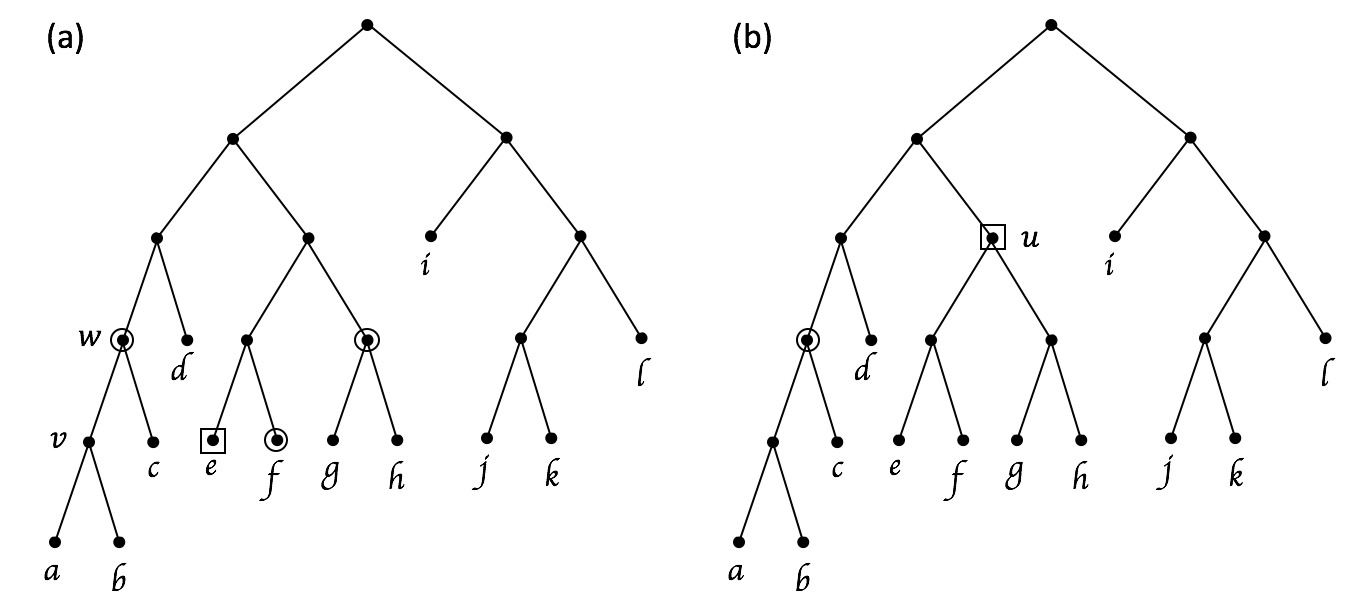
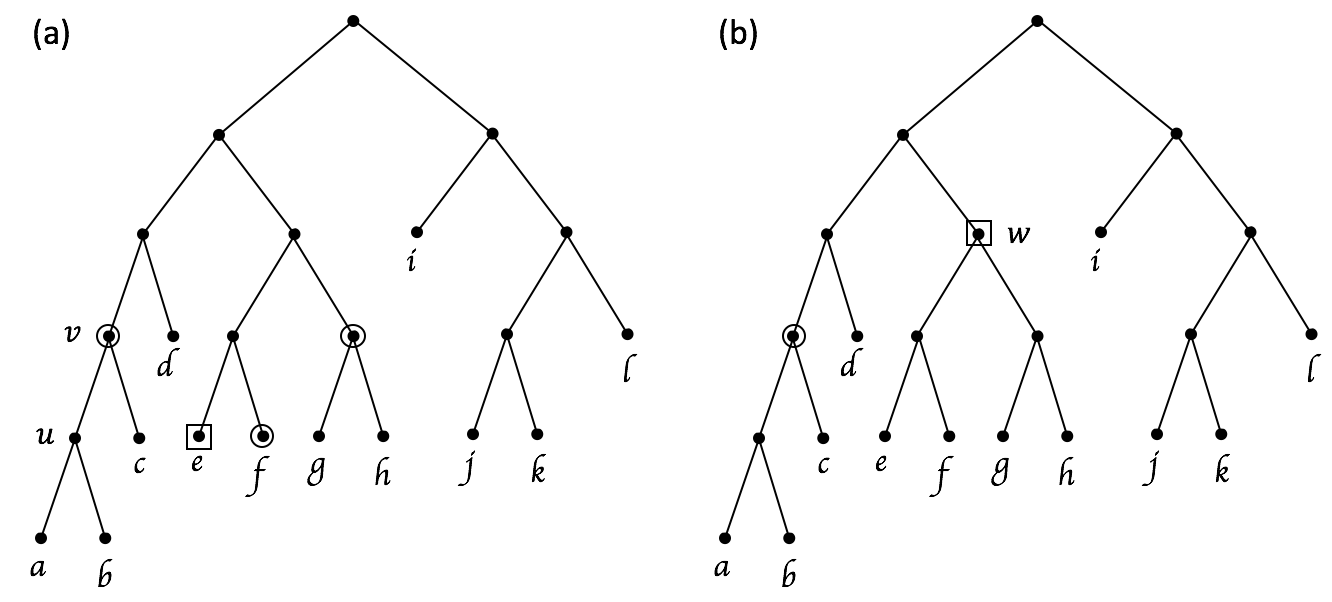
Continue making restricted tree changes

diff --git a/final_report/final_report.tex b/final_report/final_report.tex
@@ -449,18 +449,18 @@
     \subsection{The concept of a \textit{minimum cover}}
     \label{subsec:mincover}
 
-    Given a tree $T$ leaf-labelled by $L$ and a cluster $C \subseteq L$, define a set $M \subseteq V(T)$ to be a cover of $C$ in $T$ if $\bigcup_{u \in M} \leafset^{T}(u) = C$. Then we define the minimum cover of $C$ in $T$, denoted as $minCover^{T}(C)$, to be the smallest set $M$ such that $M$ is a cover of $C$. Note that this set is well defined for each cluster. Further, for any node $u \in V(T)$ such that $\leafset^{T}(u) \subseteq C$, define the node covering $u$, denoted as $coverer^{T, C}(u)$, to be the ancestor of $u$ which belongs in $minCover^{T}(C)$. Observe that this node must exist, since $\leafset^{T}(u)$ must be covered, and covering it with descendants of $u$ certainly yields a larger cover than if we use $u$. Figure~\ref{fig:mincoverrecursive}(a) gives an example of a minimum cover. In the same diagram, let $C = \{a, b, c, f, g, h\}$ and $v$ be as labelled. Then $coverer^{T, C}(v) = w$ and $minCover^{T}(C)$ is given by all the circled nodes.
+    Given a tree $T$ leaf-labelled by $L$ and a cluster $C \subseteq L$, define a set $M \subseteq V(T)$ to be a cover of $C$ in $T$ if $\bigcup_{u \in M} \leafset^{T}(u) = C$. Then we define the minimum cover of $C$ in $T$, denoted as $minCover^{T}(C)$, to be the smallest set $M$ such that $M$ is a cover of $C$. Note that this set is well defined for each cluster. Further, for any node $u \in V(T)$ such that $\leafset^{T}(u) \subseteq C$, define the node covering $u$, denoted as $coverer^{T, C}(u)$, to be the ancestor of $u$ which belongs in $minCover^{T}(C)$. Observe that this node must exist, since $\leafset^{T}(u)$ must be covered, and covering it with descendants of $u$ certainly yields a larger cover than if we use $u$. Figure~\ref{fig:mincoverrecursive}(a) gives an example of a minimum cover. In the same diagram, let $C = \{a, b, c, f, g, h\}$ and $u$ be as labelled. Then $coverer^{T, C}(u) = v$ and $minCover^{T}(C)$ is given by all the circled nodes.
 
     \begin{figure}[ht]
         \includegraphics[scale=0.48]{mincoverrecursive}
         \centering
-        \caption[Minimum cover and the $addToCover$ operation]{Illustration of minimum cover and $addToCover$ operation. Let $C = \{a, b, c, f, g, h\}$. Then the circled nodes in (a) give $minCover^{T}(C)$. Take the leaf $e$, marked with a square in (a) and let $Ce = C \cup \{e\}$. Then $coverer^{T, Ce}(e) = u$, marked with a square in (b). Then the circled node and $u$ in (b) give $minCover^{T}(Ce)$.}
+        \caption[Minimum cover and the $findCoverer$ operation]{Illustration of minimum cover and $findCoverer$ operation. Let $C = \{a, b, c, f, g, h\}$. Then the circled nodes in (a) give $minCover^{T}(C)$. Take the leaf $e$, marked with a square in (a) and let $Ce = C \cup \{e\}$. Then $coverer^{T, Ce}(e) = w$, marked with a square in (b). Then the circled node and $w$ in (b) give $minCover^{T}(Ce)$.}
         \label{fig:mincoverrecursive}
     \end{figure}
 
-    Given some tree $T$ leaf-labelled by $L$, cluster $C \subseteq L$ and node $u \in V(T)$ such that $\leafset^{T}(u) \cap C = \emptyset$, let $M = minCover^{T}(C)$ and $Cu = C \cup \leafset^{T}(u)$. Then it is useful to be able to find $coverer^{T, Cu}(u)$. To this end, we define the operation $findCoverer^{T}(M, u)$ which returns $coverer^{T, Cu}(u)$. It is also of interest to define an operation that can then find the minimum cover of $Cu$ using this. Thus, we define the operation $addToCover^{T}(M, u, v)$, where $v = coverer^{T, Cu}(u)$, which returns $minCover^{T}(Cu)$.
+    Given some tree $T$ leaf-labelled by $L$, cluster $C \subseteq L$ and node $u \in V(T)$ such that $\leafset^{T}(u) \cap C = \emptyset$, let $M = minCover^{T}(C)$ and $Cu = C \cup \leafset^{T}(u)$. Then it is useful to be able to find $coverer^{T, Cu}(u)$. To this end, we define the operation $findCoverer^{T}(M, u)$ which returns $coverer^{T, Cu}(u)$.
 
-    Figure~\ref{fig:mincoverrecursive} demonstrates how these queries work. Here, $C = \{a, b, c, f, g, h\}$ and we take the leaf $e$. The circled nodes in Figure~\ref{fig:mincoverrecursive}(a) give $minCover^{T}(C)$. Then we wish to compute $coverer^{T, Ce}(e)$, where $Ce = C \cup \{e\}$. The idea for doing so will be to iterate upwards from $e$ while the leafset of the node we are at is a subset of $Ce$. Thus, since $\leafset^{T}(parent(e)) \subseteq Ce$, we go upwards one level. We can then go a further  level, to the node $u$ since $\leafset^{T}(u) \subseteq Ce$. At this point we cannot go any further up. Hence, we say that we have found $u = coverer^{T, Ce}(e)$. Now to find $minCover^{T}(Ce)$, notice that we can subtract the set of all children of the nodes on the path from $e$ to $u$ (excluding $e$) from $M$, add $u$, and this gives us the required set. That is, we take $M \cup \{u\} - \bigcup_{u' \in path^{T}(e, u]} children(u')$. From these observations, we give the following recursive formulation of the two queries.
+    Figure~\ref{fig:mincoverrecursive} demonstrates how this query works. Here, $C = \{a, b, c, f, g, h\}$ and we take the leaf $e$. The circled nodes in Figure~\ref{fig:mincoverrecursive}(a) give $minCover^{T}(C)$. Then we wish to compute $coverer^{T, Ce}(e)$, where $Ce = C \cup \{e\}$. The idea for doing so will be to iterate upwards from $e$ while the leafset of the node we are at is a subset of $Ce$. Thus, since $\leafset^{T}(parent(e)) \subseteq Ce$, we go upwards one level. We can then go a further  level, to the node $w$ since $\leafset^{T}(w) \subseteq Ce$. At this point we cannot go any further up. Hence, we say that we have found $w = coverer^{T, Ce}(e)$. This yields the following definition of $findCoverer^{T}(M, u)$:
     \newline
 
     \begin{findcovererrecursive}
@@ -479,12 +479,14 @@
         \end{proof}
     \end{findcovererrecursive}
 
-    \medskip
+    Now given $coverer^{T, Cu}(u)$, we would like to actually obtain the minimum cover of $Cu$. Referring back to Figure~\ref{fig:mincoverrecursive}, notice that we can subtract the set of all children of the nodes on the path from $e$ to $w$ (excluding $e$) from $M$, add $w$, and this gives us the required set. That is, we take $M \cup \{w\} - \bigcup_{w' \in path^{T}(e, w]} children(w')$. This leads to the following lemma:
+    \newline
+
     \begin{mincoverrecursive}
         \label{lem:mincoverrecursive}
 
         Given a tree $T$ leaf-labelled by $L$, a cluster $C \subseteq L$ and a node $u \in V(T)$ such that $\leafset^{T}(u) \cap C = \emptyset$ let $M = minCover^{T}(C)$, $Cu = C \cup \leafset^{T}(u)$ and $v = coverer^{T, Cu}(u)$. Then
-         \[addToCover^{T}(M, u, v) = M \cup \{v\} - \bigcup_{w \in path^{T}(u, v]} children(w)\]
+         \[minCover^{T}(Cu) = M \cup \{v\} - \bigcup_{w \in path^{T}(u, v]} children(w)\]
 
         \begin{proof}
             Firstly, $M \cup \{v\} - \bigcup_{w \in path^{T}(u, v]} children(w)$ covers $Cu$. To see this, take any leaf $x \in Cu$. Then if $x \in \leafset^{T}(v)$, then we are clearly done. Otherwise, $x \in C$, so there must be some $c \in M$ such that $x \in leafset^{T}(c)$. But $c \not\in \bigcup_{w \in path^{T}(u, v]} children(w)$, otherwise $x \in \leafset^{T}(v)$. Thus $c \in M - \bigcup_{w \in path^{T}(u, v]} children(w)$, so we are done.
@@ -495,18 +497,19 @@
         \end{proof}
     \end{mincoverrecursive}
 
+    % TODO:
     Subsection~\ref{subsec:addtocover} details how to actually implement these. We now make a claim (proved later) about the running time of these operations.
-    \newline
-
-    \begin{mincoverruntime}
-        \label{lem:mincoverruntime}
-
-        Given a tree $T$ leaf-labelled by $L$, a cluster $C \subseteq L$ and a node $u \in V(T)$ such that $\leafset^{T}(u) \cap C = \emptyset$, let $M = minCover^{T}(C)$, $Cu = C \cup \leafset^{T}(u)$ and $v = coverer^{T, Cu}(u)$. Then the operations $findCoverer(M, u)$ and $addToCover^{T}(M, u, v)$ can be performed in amortized $O(1)$ time.
-
-        \begin{proof}
-            Proved in Subsection~\ref{subsec:addtocover}.
-        \end{proof}
-    \end{mincoverruntime}
+    % \newline
+    %
+    % \begin{mincoverruntime}
+    %     \label{lem:mincoverruntime}
+    %
+    %     Given a tree $T$ leaf-labelled by $L$, a cluster $C \subseteq L$ and a node $u \in V(T)$ such that $\leafset^{T}(u) \cap C = \emptyset$, let $M = minCover^{T}(C)$, $Cu = C \cup \leafset^{T}(u)$ and $v = coverer^{T, Cu}(u)$. Then the operations $findCoverer(M, u)$ and $addToCover^{T}(M, u, v)$ can be performed in amortized $O(1)$ time.
+    %
+    %     \begin{proof}
+    %         Proved in Subsection~\ref{subsec:addtocover}.
+    %     \end{proof}
+    % \end{mincoverruntime}
 
     \subsection{Redefining incompatibility}
     \label{subsec:redefiningincompatibility}
@@ -531,11 +534,11 @@
     \begin{figure}[ht]
         \includegraphics[scale=0.5]{incompatibility}
         \centering
-        \caption[Incompatibility and the $addToCover$ operation]{Illustration of Lemma~\ref{lem:incompatibilitymincover} and an $updateIncompatible$ operation. Let $C = \{a, b, c, f, g, h\}$. Then in (a), $l_C = lca^T(C)$, the circled nodes give $minCover^{T}(C)$ and the nodes marked with squares give $incompatible^T(C)$. Notice that all nodes in $incompatible^T(C)$ are proper descendants of $l_C$ and proper ancestors of some $c \in minCover^{T}(C)$. Referencing (b), let $Cu = C \cup \leafset^{T}(u)$ and $l_{Cu} = lca^{T}(Cu)$. Note that $u = coverer^{T, Cu}(u)$. Then we run $updateIncompatible^{T}(incompatible^{T}(C), u, u, l_C, l_{Cu})$. Again, nodes in $minCover^{T}(Cu)$ are circled and nodes in $incompatible^{T}(Cu)$ are marked with squares.}
+        \caption[Incompatibility and the $updateIncompatible$ operation]{Illustration of Lemma~\ref{lem:incompatibilitymincover} and an $updateIncompatible$ operation. Let $C = \{a, b, c, f, g, h\}$. Then in (a), $l_C = lca^T(C)$, the circled nodes give $minCover^{T}(C)$ and the nodes marked with squares give $incompatible^T(C)$. Notice that all nodes in $incompatible^T(C)$ are proper descendants of $l_C$ and proper ancestors of some $c \in minCover^{T}(C)$. Referencing (b), let $Cu = C \cup \leafset^{T}(u)$ and $l_{Cu} = lca^{T}(Cu)$. Note that $u = coverer^{T, Cu}(u)$. Then we run $updateIncompatible^{T}(incompatible^{T}(C), u, u, l_C, l_{Cu})$. Again, nodes in $minCover^{T}(Cu)$ are circled and nodes in $incompatible^{T}(Cu)$ are marked with squares.}
         \label{fig:incompatibility}
     \end{figure}
 
-    We now wish to define an operation similar to $addToCover$, which takes the set of nodes incompatible with a given cluster and updates this set to become those incompatible with a superset of that cluster. Formally, given tree a $T$ leaf-labelled by $L$, a cluster $C \subseteq L$ and node $u \in V(T)$ such that $\leafset^{T}(u) \cap C = \emptyset$, we would like to have an operation that takes in $I$ and $u$ (along with some other arguments) and returns $incompatible^{T}(C \cup \leafset^{T}(u))$. Figure~\ref{fig:incompatibility}(b) shows the result of an $updateIncompatible$ query.
+    We now wish to define an operation which takes the set of nodes incompatible with a given cluster and updates this set to become those incompatible with a superset of that cluster. Formally, given tree a $T$ leaf-labelled by $L$, a cluster $C \subseteq L$ and node $u \in V(T)$ such that $\leafset^{T}(u) \cap C = \emptyset$, we would like to have an operation that takes in $I$ and $u$ (along with some other arguments) and returns $incompatible^{T}(C \cup \leafset^{T}(u))$. Figure~\ref{fig:incompatibility}(b) shows the result of an $updateIncompatible$ query.
 
     \begin{figure}[ht]
         \includegraphics[scale=0.6]{incompatibilityrecursive}
@@ -578,6 +581,7 @@
         \end{proof}
     \end{incompatibilityrecursive}
 
+    % TODO: Should remove this??
     Thus we define the operation $updateIncompatible^{T}(I, u, v, l_C, l_{Cu})$ which returns $incompatible^{T}(Cu)$. The actual implementation of this operation is detailed in Subsection~\ref{subsec:updateincompatible}.
 
     We now make a claim about the running time of the $updateIncompatible$ operation, which is proved later.
@@ -600,7 +604,14 @@
 
     Recall the concept of restricted trees introduced in Subsection~\ref{subsec:restrictedtree} - given a tree $T$ leaf-labelled by $L$ and a cluster $C \subseteq L$, $V(T|C) = \{lca^T(u, v) : u, v \in C\}$ which obeys $lca^T(C') = lca^{T|C}(C')$ for all clusters $C' \subseteq C$. Observe that certain nodes are deleted from $T$ when forming $T|C$; this leads to losing information about the weights of these nodes. Hence, we extend the concept of restricted trees to the case where the tree is weighted, following the definition given in \cite{jansson2018algorithms}.
 
-    Given a tree $T$ leaf-labelled by $L$, a cluster $C \subseteq L$ and for each node $u \in V(T)$, the value $\weight(u)$, we define the tree $T||C$, read as ``weighted $T$ restricted to $C$''. First, the tree $T|C$ is constructed and let the weight of each node in this tree be the same as its weight in $T$. Now for each non-root node $u \in V(T|C)$, let $v = parent^{T|C}(u)$. Then if $path^{T}(u, v) \neq \emptyset$ we create a dummy node $z$ in $T|C$ and set $parent(u) = z$ and $parent(z) = v$. Also, $\weight(z)$ is set as $max_{w \in path^{T}(u, v)} \weight(w)$. Intuitively, if $path^{T}(u, v) \neq \emptyset$, then the nodes in this path have been deleted from $T$ to form $T|C$. As we wish to retain some information about their weights, we insert the dummy node $z$ into $T||C$ to represent this path and hold the largest weight along it.
+    Given a tree $T$ leaf-labelled by $L$, a cluster $C \subseteq L$ and for each node $u \in V(T)$, the value $\weight(u)$, we define the tree $T||C$, read as ``weighted $T$ restricted to $C$''. First, the tree $T|C$ is constructed and let the weight of each node in this tree be the same as its weight in $T$. Now for each non-root node $u \in V(T|C)$, let $v = parent^{T|C}(u)$. Then if $path^{T}(u, v) \neq \emptyset$ we create a dummy node $z$ in $T|C$ and set $parent(u) = z$ and $parent(z) = v$. Also, $\weight(z)$ is set as $max_{w \in path^{T}(u, v)} \weight(w)$. Intuitively, if $path^{T}(u, v) \neq \emptyset$, then the nodes in this path have been deleted from $T$ to form $T|C$. As we wish to retain some information about their weights, we insert the dummy node $z$ into $T||C$ to represent this path and hold the largest weight along it. Figure~\ref{fig:dummynodes} demonstrates this procedure.
+
+    \begin{figure}[ht]
+        \includegraphics[scale=0.5]{dummynodes}
+        \centering
+        \caption[Constructing the tree $T||C$]{Part (a) shows a tree $T$ where all internal nodes are labelled with their weights. Part (b) shows the tree $T||C$, where $C = \{a, c, j\}$. Again, internal nodes are labelled with their weights. Nodes represented by diamonds in this figure are dummy nodes. Observe that the dummy node that is a parent of the leaf $j$ has weight $7$ since the nodes on the path from $j$ to the root of $T$ had weights $4, 7$ and $2$.}
+        \label{fig:dummynodes}
+    \end{figure}
 
     Now, we observe some properties of $T||C$. First, define the pure nodes in $T$ with respect to $C$, denoted as $pure^{T}(C)$, to be the set $\{\leafset^{T}(u) \subseteq C : u \in V(T)\}$. Observe that $pure^{T}(C) = \bigcup_{c \in minCover^{T}(C)} V(T[c])$, i.e. the set of nodes that belong to the subtrees rooted at the minimum cover of $C$ in $T$. Notice that for any node $u \in pure^{T}(C)$, since $\leafset^{T}(u) \subseteq C$, $u \in V(T|C)$ and so $u \in V(T||C)$. Thus these subtrees are copied over without change to $T||C$. Now define the impure nodes in $T||C$, denoted as $impure^{T}(C)$, to be the set $V(T||C) - pure^{T}(C)$. Observe that all dummy nodes in $T||C$ belong to $impure^{T}(C)$. Now we prove a Lemma about the incompatibility of nodes in $T||C$.
     \newline
@@ -635,9 +646,12 @@
 
     With these operations in hand, we now develop the solution for \texttt{Filter\_Clusters}. Recall that this method takes trees $\TA$ and $\TB$ as input. First, for any node $u \in V(\TA)$, define $incompatible^{\TB}(u)$ to be $incompatible^{\TB}(\leafset^{\TA}(u))$. As discussed earlier, the idea is to find $incompatible^{\TB}(u)$ for each node $u \in V(\TA)$.
 
+    % TODO: Filter_Clusters definition
     Recall that \texttt{Filter\_Clusters} takes in trees $\TA$ and $\TB$ and returns a tree $T$, where $\mathcal{C}(T) = \{C : C \in \mathcal{C}(\TA) \text{ and } \weight(C) > max(\{\weight(C_1) : C_1 \in \mathcal{C}(\TB) \text{ and } C_1 \not\compatible C\})\}$. However, during recursive calls to this function, it could be that we delete the root of $\TA$. Thus, we change the signature slightly to return a forest $\mathcal{F}$ such that the clusters present in this forest are exactly the required ones, i.e. $\bigcup_{T' \in \mathcal{F}} \mathcal{C}(T') = \{C : C \in \mathcal{C}(\TA) \text{ and } \weight(C) > max(\{\weight(C_1) : C_1 \in \mathcal{C}(\TB) \text{ and } C_1 \not\compatible C\})\}$. Note that since the root of the original $\TA$ is a trivial cluster, it is compatible with all other clusters, so it will never be deleted. Thus, the outermost recursive call will yield only a single tree. We also modify the signature to return the set $minCover^{\TB}(\leafset^{\TA})$.
 
     Algorithm~\ref{alg:filterclusters} gives the algorithm \texttt{Filter\_Clusters}. Step~\ref{step:centroidpath} decomposes $\TA$ into a \textit{centroid path} $\langle p_{\gamma}, p_{\gamma - 1}, \dots, p_1 \rangle$, where $p_{\gamma}$ is the root of $\TA$, and a set of \textit{side trees} (similarly to \cite{jansson2018algorithms}). Observe that for any side tree $\tau \in \sigma(\TA)$, $|\leafset^\tau| \leq n/2$ and that $\{\leafset^{\tau} : \tau \in \sigma(\TA)\}$ forms a partition of $L\, \backslash\, {p_1}$. We further note that for any internal node $p_i \in \pi(\TA)$, $\leafset^{\TA}(p_{i - 1}) \subset \leafset^{\TA}(p_i)$, i.e. the cluster associated with $p_{i-1}$ is a proper subset of $p_i$. This then leads to the intuition behind the procedure \texttt{Filter\_Clusters} - recursively run the algorithm on the side trees, and then iterate over the centroid path from leaf to root, finding $incompatible^{\TB}(p_i)$ for each $p_i \in \pi(\TA)$.
+
+
 
     More specifically, Step~\ref{step:obtainsidecover} first obtains the nodes that cover, for each $p_i \in \pi(\TA)$, each of the side trees of $p_i$ using recursive calls to \texttt{Filter\_Clusters}, i.e. the set $\bigcup_{\tau \in \sigma(p_i)} minCover^{\TB}(\leafset^{\tau})$. This set is denoted by $sideCover^{\TB}(p_i)$.
 
@@ -647,12 +661,6 @@
 
     A key optimisation here is ensuring that when we call the function recursively in Step~\ref{step:recursivecall} on a side tree $\tau \in \sigma(\TA)$, the $\TB$ is restricted such that its leafset is the same as the leafset of $\tau$. Let $\tau$ be some side tree in $\sigma(\TA)$. We reuse the technique described in \cite{jansson2018algorithms} to construct a tree $\TB||\leafset^{\tau}$ such that $\leafset^{\TB||\leafset^{\tau}} = \leafset^{\tau}$, but at the same time does not lose important weight information. To do so, we first construct $\TB|\leafset^{\tau}$ and let the weight of each node in this tree be the same as its weight in $\TB$. For each non-root node $u \in V(\TB|\leafset^{\tau})$, let $v = parent^{\TB|\leafset^{\tau}}(u)$, then if $path^{\TB}(u, v) \neq \emptyset$, we create a new node $z$ in $\TB|\leafset^{\tau}$, set $parent(u) = z$ and $parent(z) = v$. Also, we set $\weight(z) = max_{w \in path^{\TB}(u, v)} \weight(w)$. Note that this value can be obtained with an $rmqTree^{\TB}[parent(u), cFD(v)]$ query, which we denote by $rmqTree^{\TB}(u, v)$. This gives us the tree $\TB||\leafset^{\tau}$.
 
-    \begin{figure}[ht]
-        \includegraphics[scale=0.5]{specialnodes}
-        \centering
-        \caption[Constructing the tree $T||C$]{Part (a) shows a tree $T$ where all internal nodes are labelled with their weights. Part (b) shows the tree $T||C$, where $C = \{a, c, j\}$. Again, internal nodes are labelled with their weights. Nodes represented by diamonds in this figure are special nodes. Observe that the special node that is a parent of the leaf $j$ has weight $7$ since the nodes on the path from $j$ to the root of $T$ had weights $4, 7$ and $2$.}
-        \label{fig:specialnodes}
-    \end{figure}
 
     We build the RMQ and cFD data structure for $\TB$ to allow $rmqTree$ queries before \texttt{Filter\_Clusters} is called. Also note that since we have modified the signature of the algorithm, we need to do some processing after it finishes. In particular, we make a copy of $\TA$ and traverse this in a top-down manner, performing the $delete$ operation on the relevant nodes. Observe that this process takes $O(n)$ time. The resulting procedure \texttt{Filter\_Clusters} is presented below.
 
@@ -793,7 +801,7 @@
         \end{algorithmic}
     \end{algorithm}
 
-    Note that we have to make a query of the form $\leafset^{T}(v) \subseteq Cu$. However, recall that we construct trees of the form $\TB||\leafset^{\tau}$, which removes some leaves. Hence, we need to keep track of all nodes $u$ in any $\TB||\leafset^{\tau}$ where $\leafset^{\TB}(u) \neq \leafset^{\TB||\leafset^{\tau}}(u)$. This is easy to do while we're forming the tree $\TB|\leafset^{\tau}$; all such nodes are marked $spoiled$. Note that any special node is certainly $spoiled$. For example, in Figure~\ref{fig:specialnodes}(b), all internal nodes are spoilt. Thus, our check is updated to checking if $\leafset^{T}(v) \subseteq Cu$ and $v$ is not $spoiled$.
+    Note that we have to make a query of the form $\leafset^{T}(v) \subseteq Cu$. However, recall that we construct trees of the form $\TB||\leafset^{\tau}$, which removes some leaves. Hence, we need to keep track of all nodes $u$ in any $\TB||\leafset^{\tau}$ where $\leafset^{\TB}(u) \neq \leafset^{\TB||\leafset^{\tau}}(u)$. This is easy to do while we're forming the tree $\TB|\leafset^{\tau}$; all such nodes are marked $spoiled$. Note that any special node is certainly $spoiled$. For example, in Figure~\ref{fig:dummynodes}(b), all internal nodes are spoilt. Thus, our check is updated to checking if $\leafset^{T}(v) \subseteq Cu$ and $v$ is not $spoiled$.
 
     The \texttt{Add\_To\_Cover} procedure is also easy to define using Lemma~\ref{lem:mincoverrecursive}, as done in Algorithm~\ref{alg:addtocover}.
 
